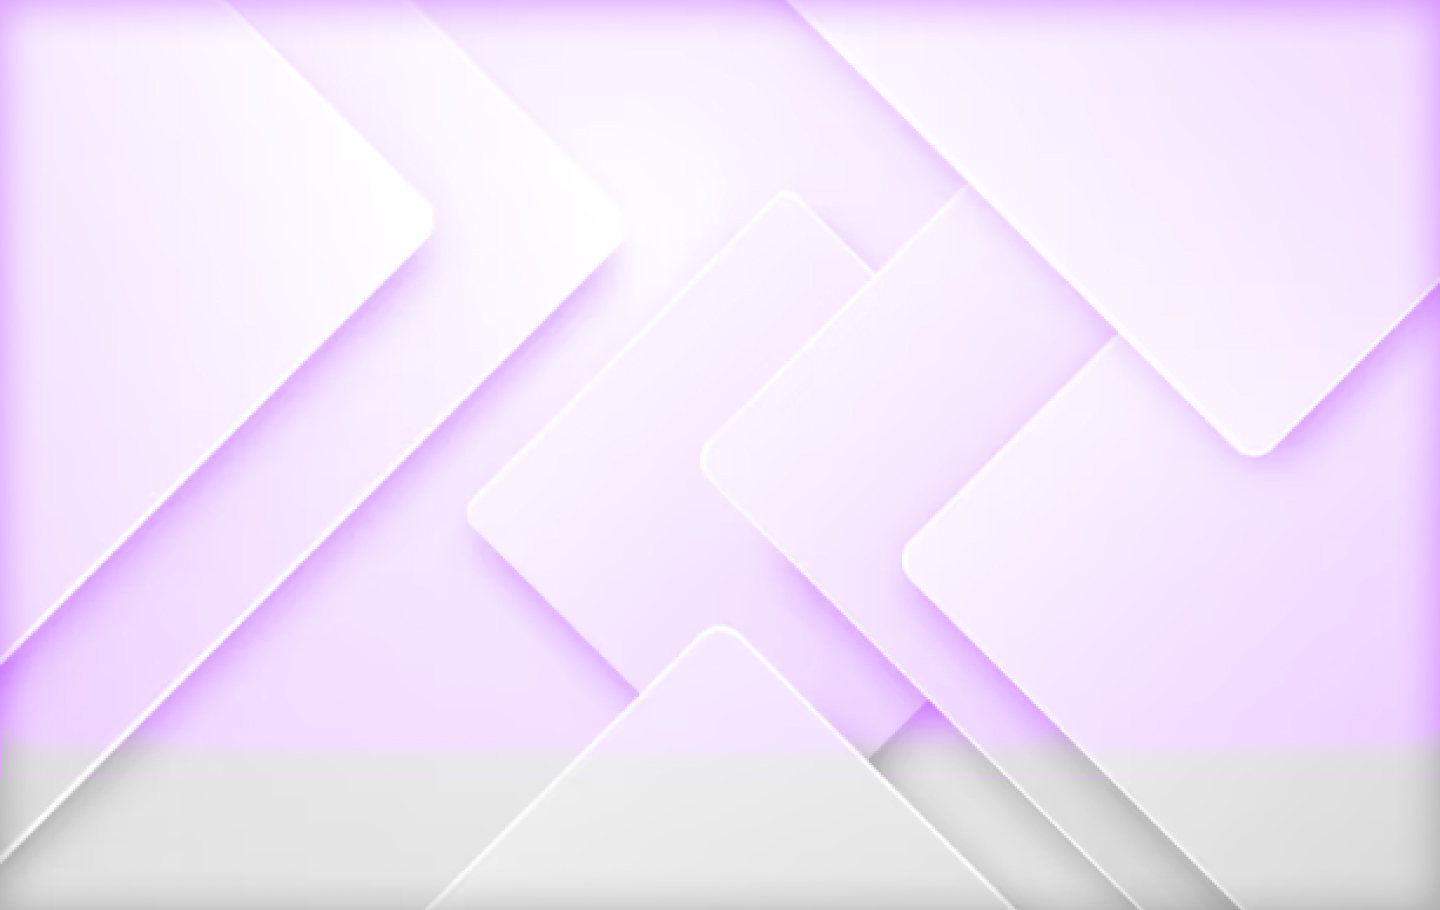
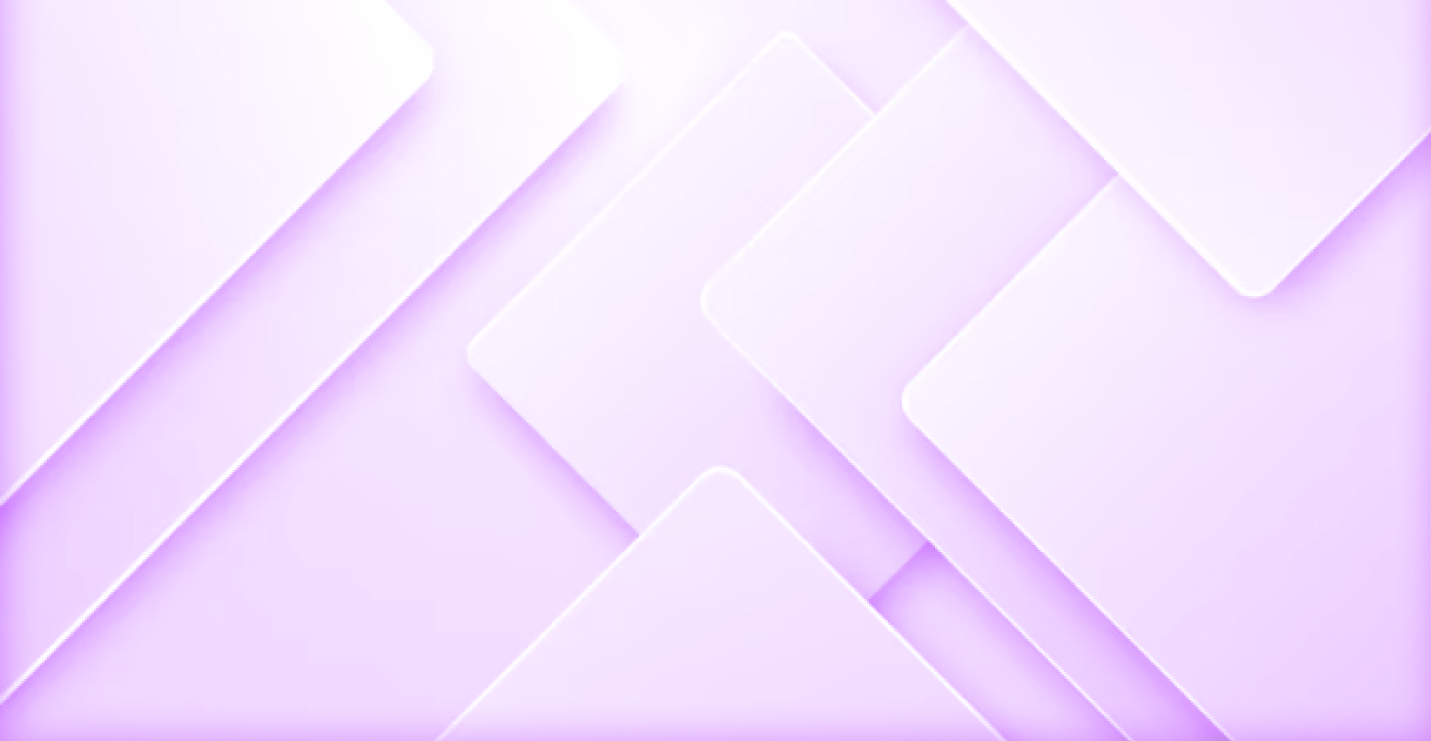
Ajustes em imagens e textos de elementos na interface home
- Ajustado imagem hero-background
- Ajustado nome dos buttons cards services

diff --git a/src/components/card-services.tsx b/src/components/card-services.tsx
@@ -56,11 +56,11 @@ export default function CardServices({ lang }: CardServicesProps) {
 					{infoServicesCards.map((item, index) => (
 						<CarouselItem
 							key={index}
-							className="max-sm:basis-1/1 min-w-56 max-w-[392px] pl-5 md:basis-1/2 lg:basis-1/3 xl:basis-1/4 2xl:basis-1/5"
+							className="max-sm:basis-1/1 min-w-56 max-w-[392px] pl-5 md:basis-1/2 lg:basis-1/3 xl:basis-1/4 2xl:basis-1/4"
 						>
 							<div className="p-1">
-								<Card className="my-2 h-full min-w-[285px] shadow-lg">
-									<CardContent className="flex aspect-square items-center justify-center p-6">
+								<Card className="my-2 flex max-h-[500px] min-h-[500px] min-w-[285px] flex-col shadow-lg">
+									<CardContent className="flex aspect-square flex-1 items-center justify-center ">
 										<div className="mt-16 flex flex-1 flex-col items-center  border-none bg-transparent px-4 pb-1 pt-8  max-md:mt-10">
 											<Image
 												alt="any"
@@ -76,7 +76,7 @@ export default function CardServices({ lang }: CardServicesProps) {
 											</div>
 										</div>
 									</CardContent>
-									<CardFooter className="flex h-full w-full items-center justify-center">
+									<CardFooter className="flex w-full items-center justify-center self-end">
 										<ButtonLinkCard
 											urlTarget={item.urlTarget}
 											text={item.buttonName}

diff --git a/src/dictionaries/others/cards-info-service.ts b/src/dictionaries/others/cards-info-service.ts
@@ -55,7 +55,7 @@ const cardTextsPT: CardInfoServiceType[] = [
 		nameService: 'ClickAdsense',
 		descriptionService:
 			'Aumente a sua presença online, envolva o seu público e garanta que a sua marca se torne a sua primeira escolha.',
-		buttonName: 'Saiba',
+		buttonName: 'Saiba Mais',
 		urlTarget: '/click-adsense',
 	},
 	{
@@ -63,7 +63,7 @@ const cardTextsPT: CardInfoServiceType[] = [
 		nameService: 'ClickMedia',
 		descriptionService:
 			'Não há mais necessidade de se preocupar com mídias sociais. nós fazemos isso por você',
-		buttonName: 'Saiba',
+		buttonName: 'Saiba Mais',
 		urlTarget: '/click-media',
 	},
 	{
@@ -71,14 +71,14 @@ const cardTextsPT: CardInfoServiceType[] = [
 		nameService: 'ClickPages',
 		descriptionService:
 			'A melhor forma de receber mais emails, lançar seus produtos e promover seus serviços.',
-		buttonName: 'Saiba',
+		buttonName: 'Saiba Mais',
 		urlTarget: '/click-pages',
 	},
 	{
 		icon: Click_WebSVG,
 		nameService: 'ClickWeb',
 		descriptionService: 'O site que você sempre quis é possível aqui.',
-		buttonName: 'Saiba',
+		buttonName: 'Saiba Mais',
 		urlTarget: '/click-web',
 	},
 	// {

diff --git a/src/app/[lang]/(app)/home/page.tsx b/src/app/[lang]/(app)/home/page.tsx
@@ -19,8 +19,9 @@ import JapaneseFAQImage from '@/assets/japanase-faq-photo.svg';
 import LeftArrowClickPhrase from '@/assets/left-arrow-click-phrase.svg';
 import MapWorldDoted from '@/assets/map-world-dotted.svg';
 import MenPhotoTopHero from '@/assets/men-photo-top-hero.svg';
-import OurMissionPhoto from '@/assets/our-mission-photo.svg';
+// import OurMissionPhoto from '@/assets/our-mission-photo.svg';
 import BgImageFullHero from '@/assets/pages/home/hero-background.jpg';
+import OurMissionPhoto from '@/assets/pages/home/our-mission.jpg';
 import PointerClickLeft from '@/assets/pointer-click-left.svg';
 import PointerClickRight from '@/assets/pointer-click-right.svg';
 // import ValuesClickMOre from '@/assets/image-values.svg';

diff --git a/src/components/layout/buttons/button-link-card.tsx b/src/components/layout/buttons/button-link-card.tsx
@@ -12,7 +12,7 @@ export default function ButtonLinkCard({
 }: ButtonLinkCardProps) {
 	return (
 		<Link
-			className="flex max-h-14  justify-between gap-2.5 self-center rounded-[45px] border-purple-950 bg-cm-primary px-8 py-3 font-medium text-white transition duration-500 hover:text-white hover:opacity-90 max-md:px-5"
+			className="flex max-h-14 justify-between gap-2.5 self-center rounded-[45px] border-purple-950 bg-cm-primary px-8 py-3 font-medium text-white transition duration-500 hover:text-white hover:opacity-90 max-md:px-5"
 			href={`${urlTarget}?plan=true`}
 		>
 			<span className="h-auto uppercase">{text}</span>
